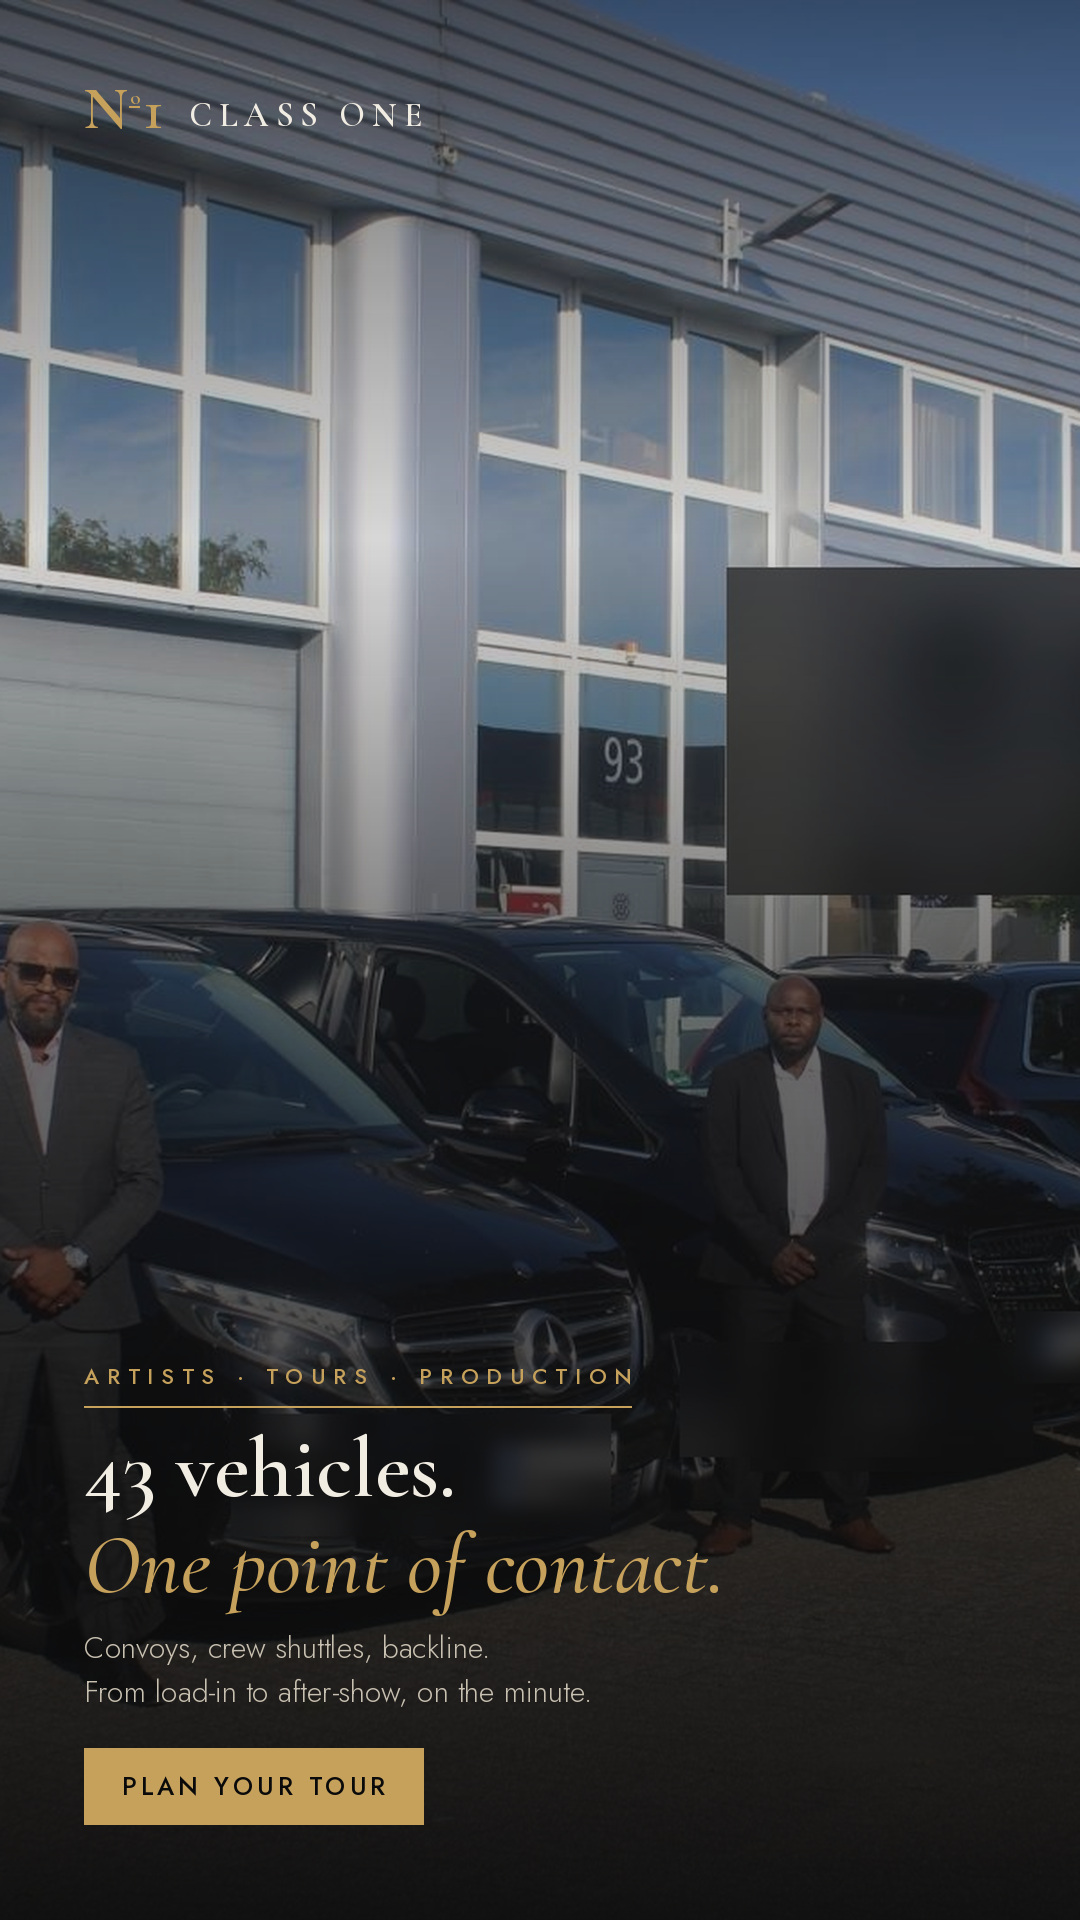
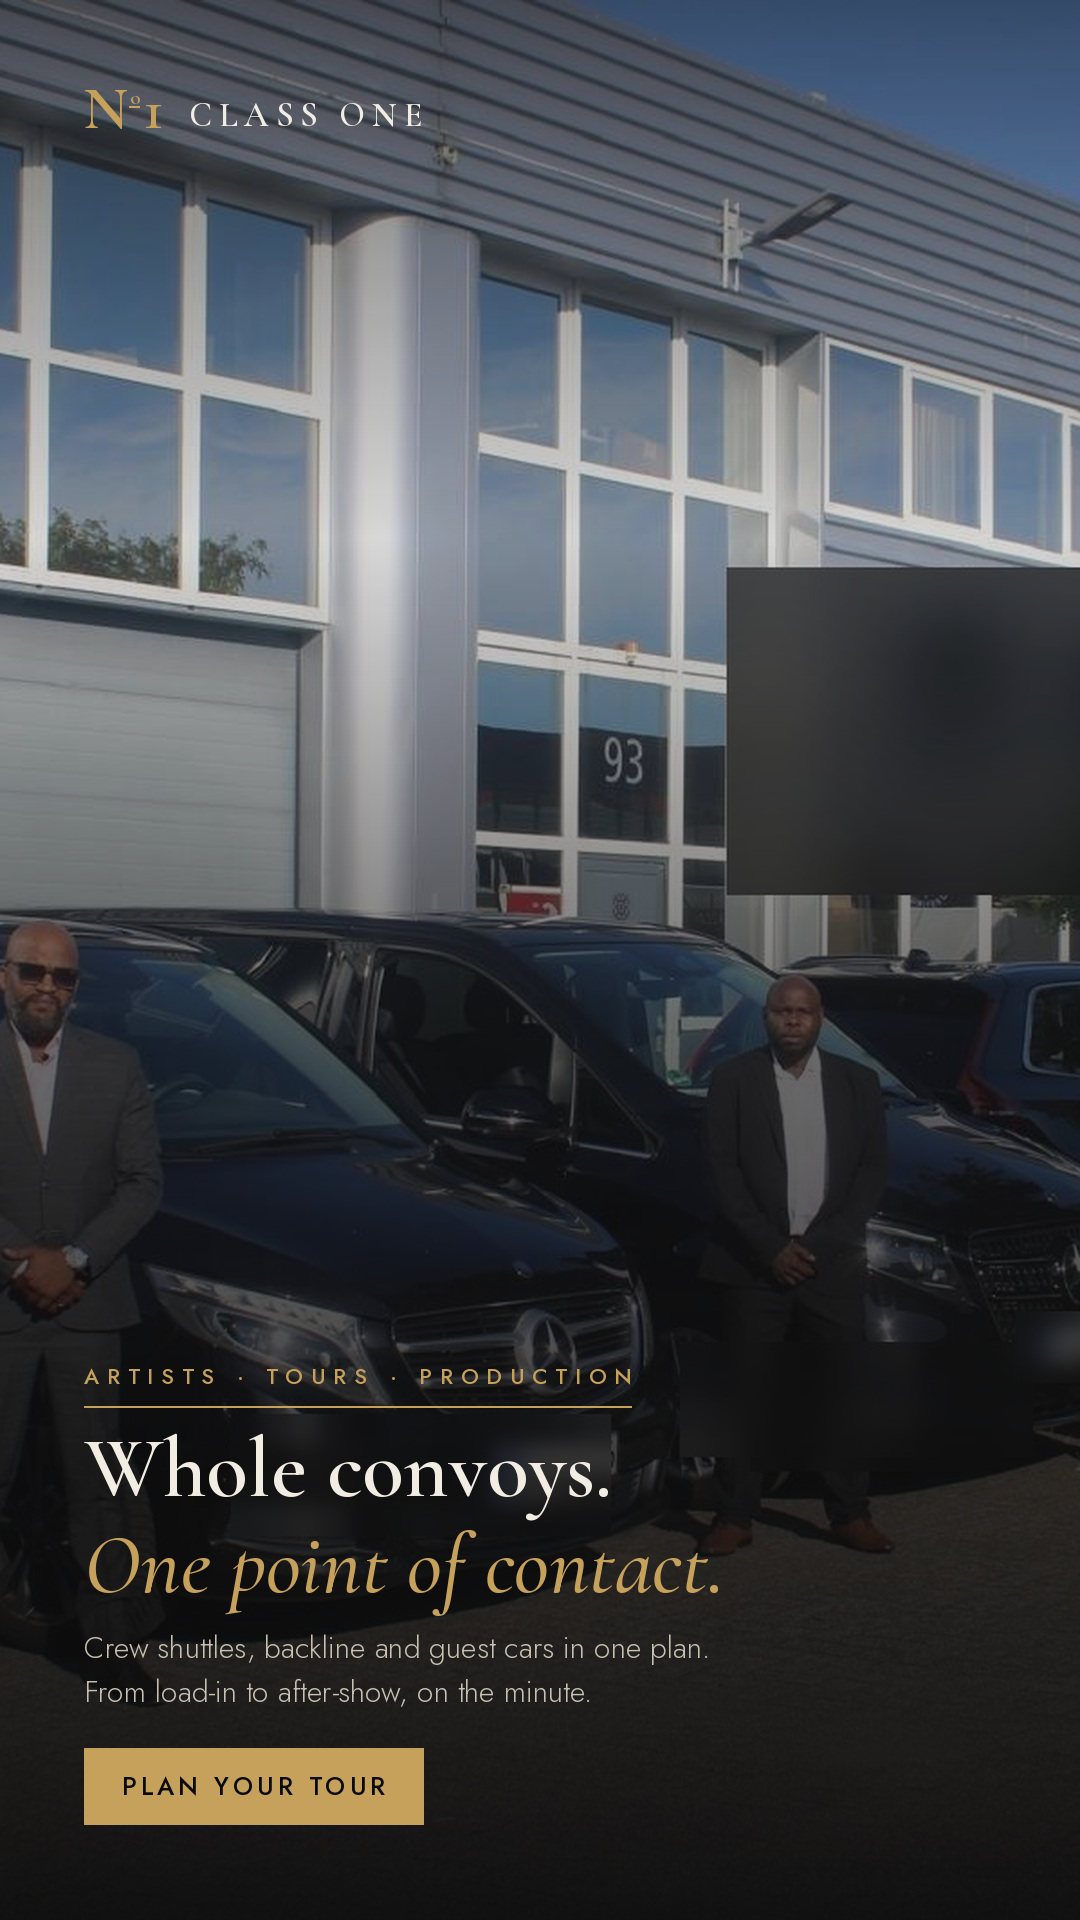
Launch ad set + remove unprovable fleet count
Ad creatives (ad-creative skill, own photography only):
- 18 creatives across 6 campaigns: feed 1080x1350 + story 1080x1920,
  plus display 1200x628 for airport and executive
- A/B headline variants for airport (benefit vs proof) and tours
  (proof vs benefit), as 01_airport_b and 03_tours_b
- ads/README.md documents creative index, placement per format and the
  Meta copy (primary text, headline, description, CTA) for each

Photo QA before rendering — four source files failed and were corrected
in photos/ (originals backed up):
- team-fleet-lineup: two third-party banners legible, parked-car plate
  readable, two van plates showing below the existing patch
- chauffeur-sunset: third-party shuttle branding, front plate at edge
- airport-lineup: partial plate digit on a left-row van
- waldorf-pickup: absent from photos/ entirely; created upright with
  both van plates blurred

Fleet count removed everywhere: the figure is illustrative, not fixed,
so it cannot run as a claim. Tours headline is now "Whole convoys. /
One point of contact."; the site's case-strip chip reads "Full convoy -
one operation"; brand.md records the rule.

No creative carries a phone number or domain - still unassigned.

Claude-Session: https://claude.ai/code/session_01VXYGsueedviD6rrMe3FDUy

diff --git a/ads/README.md b/ads/README.md
@@ -25,7 +25,7 @@ they exist; never ship placeholders.
 | `01_airport.jpg` / `_story` / `_display` | Airport transfer (A) | `airport/airport-lineup.jpg` | Your chauffeur / *is already there.* |
 | `01_airport_b.jpg` / `_story` | Airport transfer (B) | same photo | Flight delayed? / *The price holds.* |
 | `02_executive.jpg` / `_story` / `_display` | Executive chauffeur | `services/waldorf-pickup.jpg` | From the terminal / *to the lobby.* |
-| `03_tours.jpg` / `_story` | Artists & tours (A) | `rotterdam/team-fleet-lineup.jpg` | 43 vehicles. / *One point of contact.* |
+| `03_tours.jpg` / `_story` | Artists & tours (A) | `rotterdam/team-fleet-lineup.jpg` | Whole convoys. / *One point of contact.* |
 | `03_tours_b.jpg` / `_story` | Artists & tours (B) | same photo | Your tour manager / *keeps one number.* |
 | `04_trust.jpg` / `_story` | Trust / credentials | `rotterdam/chauffeur-sunset.jpg` | For schedules that / *allow no mistakes.* |
 | `05_cabin.jpg` / `_story` | V-Class cabin | `v-class/interior-lounge-04.jpg` | The journey / *is the destination.* |
@@ -36,7 +36,7 @@ they exist; never ship placeholders.
 | Pair | A — angle | B — angle |
 |---|---|---|
 | Airport | **Benefit-led**: reassurance on arrival | **Proof-led**: the delay/price mechanic, concrete |
-| Tours | **Proof-led**: fleet size, single contact | **Benefit-led**: the tour manager's own workload |
+| Tours | **Proof-led**: scope of the operation, single contact | **Benefit-led**: the tour manager's own workload |
 
 Run A and B in the same ad set, same budget, same audience. Judge on
 cost per qualified enquiry, not CTR.
@@ -86,8 +86,8 @@ business can evidence, and no client is named.
 - **CTA button:** Book now
 
 ### 03 — Artists & tours (A)
-- **Primary text:** Convoys, crew shuttles and backline in one plan. 43 vehicles and one coordinator who holds the whole itinerary — from load-in to after-show, on the minute.
-- **Headline:** 43 vehicles. One point of contact
+- **Primary text:** Crew shuttles, backline and guest cars planned as one movement, with a single coordinator holding the whole itinerary — from load-in to after-show, on the minute.
+- **Headline:** Whole convoys. One point of contact
 - **Description:** Tour and production logistics
 - **CTA button:** Learn more
 
@@ -138,5 +138,7 @@ Clean on first inspection: `v-class/interior-lounge-04.jpg`,
   remains recognisable to anyone who knows it. Confirm that is acceptable.
 - **Team members are identifiable** in the tours, executive and trust
   creatives — GDPR consent applies (per `photos/PHOTOS.md`).
-- **"43 vehicles"** is used as a proof point in `03_tours`. It must be
-  accurate at the time of running, or the claim should be softened.
+- **No fleet count appears in any creative.** An earlier draft used
+  "43 vehicles"; the figure is illustrative rather than fixed, so it was
+  replaced with "Whole convoys." Keep it that way — a specific total moves
+  with the season and cannot be stood behind in an ad.

diff --git a/.claude/skills/ad-creative/reference/brand.md b/.claude/skills/ad-creative/reference/brand.md
@@ -41,7 +41,12 @@ set weight via `set_variation_by_axes`.
 
 Lead with the client's benefit, not the company's features.
 Good: "Your chauffeur is already there." Bad: "Premium luxury transportation solutions."
-Proof beats adjectives: "43 vehicles. One point of contact." outperforms "Large fleet."
+Proof beats adjectives: "Whole convoys. One point of contact." outperforms "Large fleet."
+
+Never put a fleet count in copy. The figure moves with the season and with
+vehicles on hire, so any specific number is a claim that cannot be stood
+behind. Convey scale through what is operated ("whole convoys", "crew
+shuttles and backline in one plan"), not through a total.
 
 Approved credential line (categories only, no names):
 "Trusted with touring artists, royal delegations and senior political figures."
